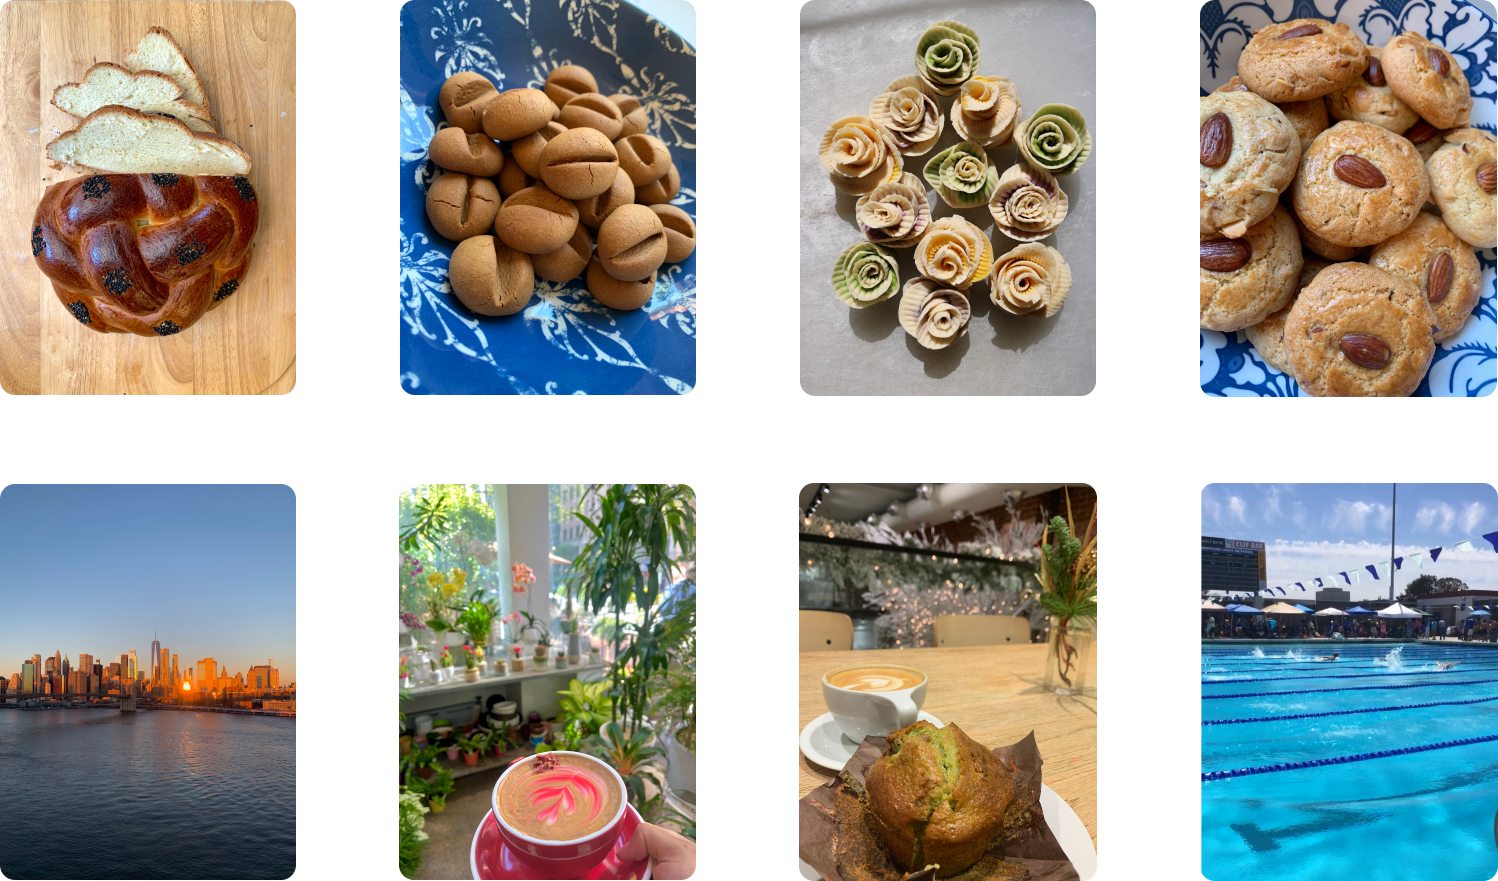
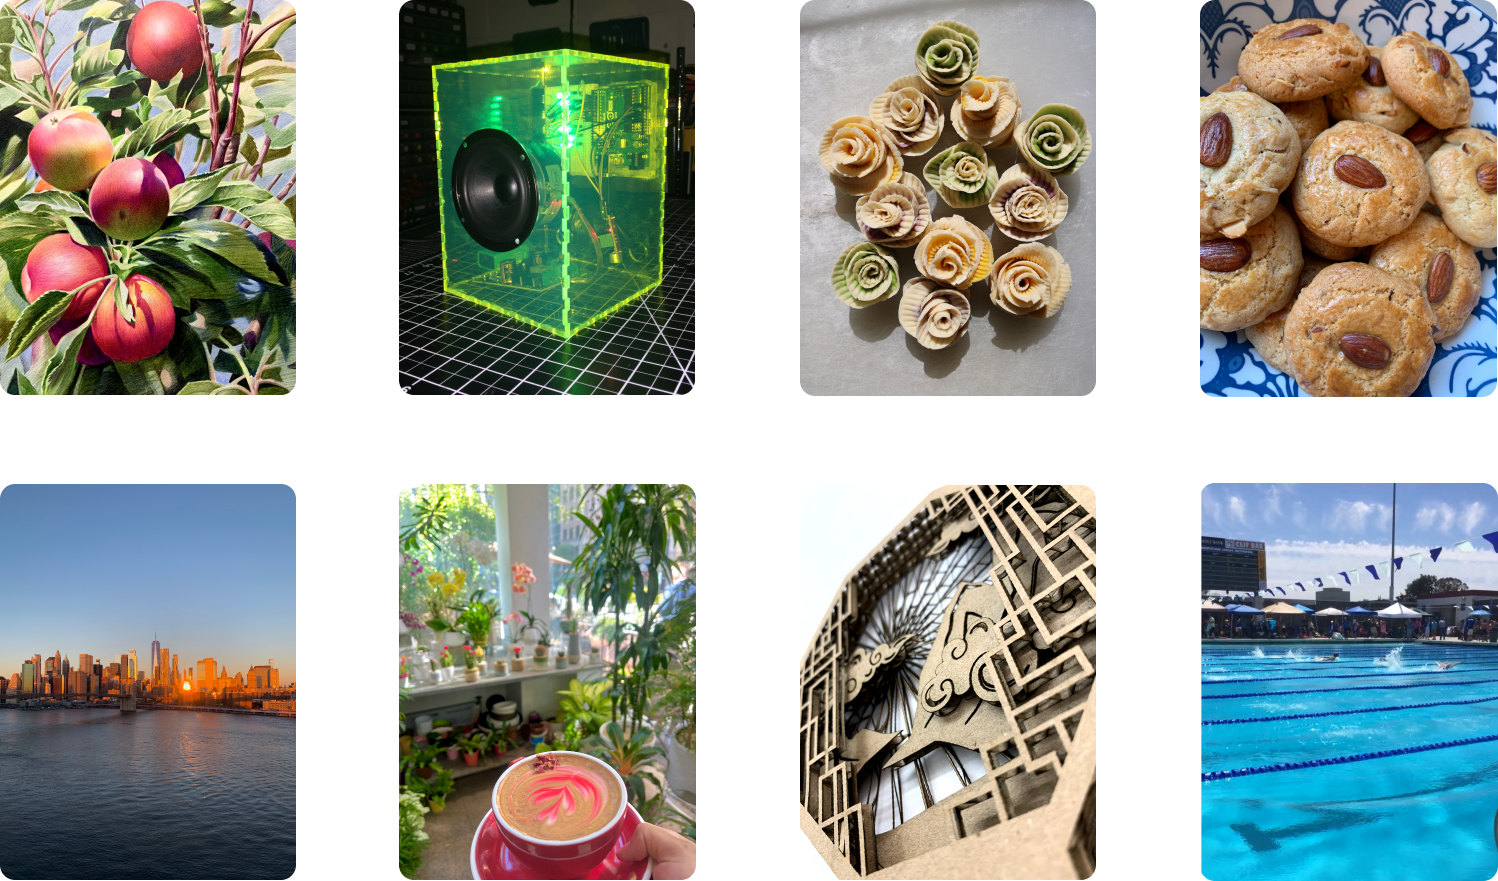
3rd commit

Changed region(s): [[0.2457, 0.0, 0.4913, 0.4597], [0.522, 0.521, 0.737, 1.0], [0.0, 0.0, 0.215, 0.4597]]

diff --git a/about.html b/about.html
@@ -63,8 +63,14 @@
         <br>
         <h1>In my free time, you can find me... </h1>
         <ul class="disc">
-            <li>🥐      <b>Baking-  </b> it may have started during Covid as a coping-mechanism, 
-                but it's now one of my favorite pastimes! </li>
+            <li>🖐      <b>Doing hands-on activities...</b></li>
+                <ul class= "circle" type="circle">
+                    <li>🥐      <b>Baking-    </b> started during Covid as a coping-mechanism, 
+                        but is now one of my favorite pastimes! </li>
+                    <li>🛠     <b>Fabrication-      </b>it's so satifying to bring an idea into fruition, 
+                        whether through 3D printing, laser cutting, or other tools</li>
+                    <li>🎨       <b>Painting and Drawing-       </b> my place of comfort and tranquility  </li>
+                </ul>
             <li>📚      <b>Reading</b> & 🎧         <b>Audiobooks- </b> I love to get lost 
             in a good sci-fi thriller or an eerie murder mystery </li>
             <li>🏊♀      <b>Swimming-  </b> one of the only aerobic exercises where I 

diff --git a/contact.css b/contact.css
@@ -45,7 +45,7 @@ header .navbar a.active{
     width: 100%;
     padding: 12px;
     margin-bottom: 20px;
-    border: 1px solid #214ED3;
+    border: 0.8px solid #214ED3;
     border-radius: 10px;
     font-family: 'Barlow', sans-serif;
     font-size: 14px;
@@ -74,7 +74,7 @@ header .navbar a.active{
 #contact-form .name-input input {
     width: 100%;
     padding: 12px;
-    border: 1px solid#214ED3;
+    border: 0.8px solid#214ED3;
     border-radius: 10px;
     font-family: 'Barlow', sans-serif;
     font-size: 14px;
@@ -93,7 +93,7 @@ header .navbar a.active{
     width: 100%;
     padding: 12px;
     margin-bottom: 20px;
-    border: 1px solid #214ED3;
+    border: 0.8px solid #214ED3;
     border-radius: 10px;
     font-family: 'Barlow', sans-serif;
     font-size: 14px;

diff --git a/contact.html b/contact.html
@@ -21,10 +21,12 @@
     </header>
 
     <div class="contact-container">
+        <form action="https://api.web3forms.com/submit" method="POST">
+
+            <input type="hidden" name="access_key" value="4fb57ae7-def2-4c25-840b-3293f38a7f48">
         <section id="contact-form">
             <h2>Let's Connect                🤝</h2>
-            <form action="submit_form.php" method="post"> <!-- Replace "submit_form.php" with the actual script that processes the form -->
-                <!-- <div><p>Name <span>(required)</span></p> -->
+            
                 <div class="name-inputs">
             
                     <div class="name-input">

diff --git a/about.css b/about.css
@@ -103,7 +103,7 @@ ul.circle {
     font-size: 15px;
     font-weight: 300;
     line-height: 1.7;
-    padding: 0px 20vw 0px 5vw;
+    padding: 0px 0vw 0px 5vw;
     margin: 0px 0px 10px 0px;
 }
 
